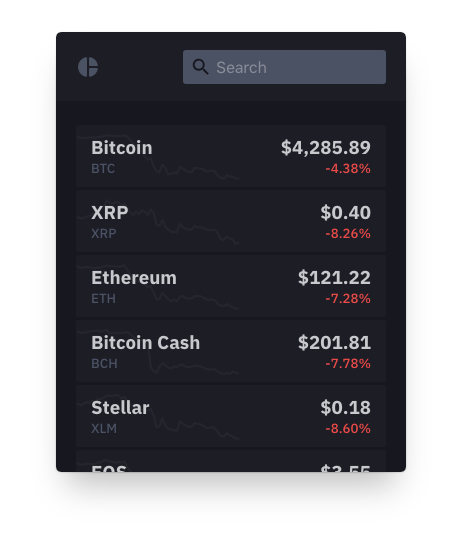
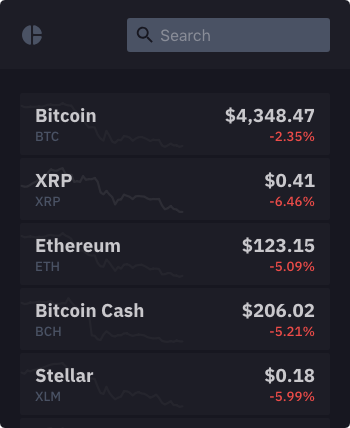
Update web preview image and misc style tweaks

diff --git a/web/assets/css/main.css b/web/assets/css/main.css
@@ -20,6 +20,7 @@ img {
 html {
   -webkit-font-smoothing: antialiased;
   height: 100%;
+  background: var(--color-slate);
 }
 
 @media (min-height: 700px) {
@@ -33,20 +34,15 @@ html {
 body {
   font-family: 'IBM Plex Sans', sans-serif;
   border-radius: 5px;
-  padding: 20px 20px 50px 20px;
+  padding: 20px 20px 30px 20px;
   color: var(--color-white);
   background: var(--color-slate);
-  max-width: 600px;
-  margin: 0 auto;
+  width: 100%;
   text-align: center;
 }
 
 h1 {
   font-weight: 700;
-}
-
-header {
-  margin: 20px 0;
 }
 
 .sub {
@@ -55,7 +51,9 @@ header {
 }
 
 .preview {
-  max-width: 400px;
+  max-width: 350px;
+  margin: 30px 0;
+  box-shadow: 2px 3px 8px rgba(0, 0, 0, 0.2);
 }
 
 ul {
@@ -73,7 +71,7 @@ ul {
   border-radius: 8px;
   font-weight: 700;
   margin: 0 5px;
-  opacity: 0.5;
+  opacity: 0.3;
   cursor: pointer;
 }
 
